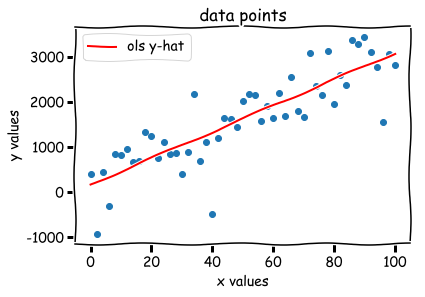
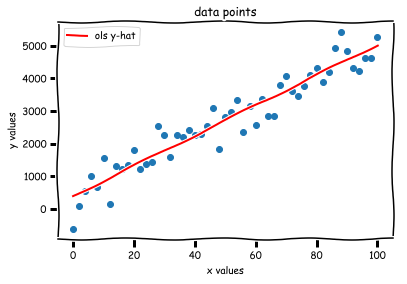
updating readme

diff --git a/README.md b/README.md
@@ -48,7 +48,7 @@ plt.xkcd()
 
 
 
-    <contextlib._GeneratorContextManager at 0x11469d198>
+    <contextlib._GeneratorContextManager at 0x10a7e10b8>
 
 
 
@@ -126,8 +126,8 @@ np.corrcoef(x_vals, y_vals)
 
 
 
-    array([[1.        , 0.84805296],
-           [0.84805296, 1.        ]])
+    array([[1.        , 0.95522727],
+           [0.95522727, 1.        ]])
 
 
 
@@ -201,7 +201,7 @@ RMSE1(y_vals, y_hat)
 
 
 
-    0.7772369138460854
+    1.097359277376351
 
 
 
@@ -213,7 +213,7 @@ RMSE2(y_vals, y_hat)
 
 
 
-    0.7040310035161832
+    0.08305128137697071
 
 
 
@@ -232,7 +232,7 @@ r2_score(y_vals, y_hat)
 
 
 
-    0.7040310035161832
+    0.08305128137697071
 
 
 
@@ -242,6 +242,10 @@ r2_score(y_vals, y_hat)
 ```python
 import statsmodels.api as sm # very standard
 ```
+
+    /anaconda3/lib/python3.6/site-packages/statsmodels/compat/pandas.py:56: FutureWarning: The pandas.core.datetools module is deprecated and will be removed in a future version. Please use the pandas.tseries module instead.
+      from pandas.core import datetools
+
 
 
 ```python
@@ -303,25 +307,25 @@ summary
 <table class="simpletable">
 <caption>OLS Regression Results</caption>
 <tr>
-  <th>Dep. Variable:</th>            <td>y</td>        <th>  R-squared:         </th> <td>   0.719</td>
+  <th>Dep. Variable:</th>            <td>y</td>        <th>  R-squared:         </th> <td>   0.912</td>
 </tr>
 <tr>
-  <th>Model:</th>                   <td>OLS</td>       <th>  Adj. R-squared:    </th> <td>   0.713</td>
+  <th>Model:</th>                   <td>OLS</td>       <th>  Adj. R-squared:    </th> <td>   0.911</td>
 </tr>
 <tr>
-  <th>Method:</th>             <td>Least Squares</td>  <th>  F-statistic:       </th> <td>   125.5</td>
+  <th>Method:</th>             <td>Least Squares</td>  <th>  F-statistic:       </th> <td>   510.7</td>
 </tr>
 <tr>
-  <th>Date:</th>             <td>Thu, 23 May 2019</td> <th>  Prob (F-statistic):</th> <td>4.06e-15</td>
+  <th>Date:</th>             <td>Fri, 24 May 2019</td> <th>  Prob (F-statistic):</th> <td>1.44e-27</td>
 </tr>
 <tr>
-  <th>Time:</th>                 <td>14:42:09</td>     <th>  Log-Likelihood:    </th> <td> -392.85</td>
+  <th>Time:</th>                 <td>07:30:51</td>     <th>  Log-Likelihood:    </th> <td> -380.77</td>
 </tr>
 <tr>
-  <th>No. Observations:</th>      <td>    51</td>      <th>  AIC:               </th> <td>   789.7</td>
+  <th>No. Observations:</th>      <td>    51</td>      <th>  AIC:               </th> <td>   765.5</td>
 </tr>
 <tr>
-  <th>Df Residuals:</th>          <td>    49</td>      <th>  BIC:               </th> <td>   793.6</td>
+  <th>Df Residuals:</th>          <td>    49</td>      <th>  BIC:               </th> <td>   769.4</td>
 </tr>
 <tr>
   <th>Df Model:</th>              <td>     1</td>      <th>                     </th>     <td> </td>   
@@ -335,24 +339,24 @@ summary
     <td></td>       <th>coef</th>     <th>std err</th>      <th>t</th>      <th>P>|t|</th>  <th>[0.025</th>    <th>0.975]</th>  
 </tr>
 <tr>
-  <th>const</th> <td>  165.2947</td> <td>  150.885</td> <td>    1.096</td> <td> 0.279</td> <td> -137.920</td> <td>  468.509</td>
+  <th>const</th> <td>  390.1596</td> <td>  119.078</td> <td>    3.276</td> <td> 0.002</td> <td>  150.863</td> <td>  629.456</td>
 </tr>
 <tr>
-  <th>x1</th>    <td>   29.1315</td> <td>    2.600</td> <td>   11.203</td> <td> 0.000</td> <td>   23.906</td> <td>   34.357</td>
+  <th>x1</th>    <td>   46.3801</td> <td>    2.052</td> <td>   22.600</td> <td> 0.000</td> <td>   42.256</td> <td>   50.504</td>
 </tr>
 </table>
 <table class="simpletable">
 <tr>
-  <th>Omnibus:</th>       <td>13.145</td> <th>  Durbin-Watson:     </th> <td>   2.022</td>
+  <th>Omnibus:</th>       <td> 0.187</td> <th>  Durbin-Watson:     </th> <td>   1.861</td>
 </tr>
 <tr>
-  <th>Prob(Omnibus):</th> <td> 0.001</td> <th>  Jarque-Bera (JB):  </th> <td>  14.891</td>
+  <th>Prob(Omnibus):</th> <td> 0.911</td> <th>  Jarque-Bera (JB):  </th> <td>   0.265</td>
 </tr>
 <tr>
-  <th>Skew:</th>          <td>-0.997</td> <th>  Prob(JB):          </th> <td>0.000584</td>
+  <th>Skew:</th>          <td>-0.134</td> <th>  Prob(JB):          </th> <td>   0.876</td>
 </tr>
 <tr>
-  <th>Kurtosis:</th>      <td> 4.741</td> <th>  Cond. No.          </th> <td>    114.</td>
+  <th>Kurtosis:</th>      <td> 2.769</td> <th>  Cond. No.          </th> <td>    114.</td>
 </tr>
 </table>
 
@@ -407,7 +411,7 @@ bias, slope
 
 
 
-    (36, 28)
+    (109, 43)
 
 
 
@@ -419,7 +423,7 @@ linreg.params
 
 
 
-    array([165.29472623,  29.13154899])
+    array([390.15958368,  46.3800907 ])
 
 
 
@@ -433,7 +437,7 @@ ols_slope, ols_bias
 
 
 
-    (29.131548985125946, 165.29472623494996)
+    (46.380090699058464, 390.159583684173)
 
 
 
@@ -498,7 +502,7 @@ r2_score(y_vals, ols_y_hat), r2_score(y_vals, best_y_hat)
 
 
 
-    (0.71919381491224, 0.6843259397513707)
+    (0.9124591462850884, 0.8084292762921518)
 
 
 
@@ -548,6 +552,110 @@ plt.show()
 
 
 ![png](lesson-plan_files/lesson-plan_48_1.png)
+
+
+### Estimation using the $\hat{m}$ approxmiation
+$$\hat{m} = \rho \frac{\sigma_y}{\sigma_x}$$
+
+$$\hat{m} = \frac{\overline{x}\times\overline{y}-\overline{xy}}{\big(\overline{x}\big)^2-\overline{x^2}}$$
+
+
+```python
+# formula 1
+rho = np.corrcoef(x_vals, y_vals)[0, 1]
+num = y_vals.std()
+den = x_vals.std()
+
+m_hat = rho * num/den
+m_hat
+```
+
+
+
+
+    46.38009069905847
+
+
+
+
+```python
+# formula 2
+num = x_vals.mean()*y_vals.mean() - np.mean(x_vals*y_vals)
+den = x_vals.mean()**2 - np.mean(x_vals**2)
+m_hat = num/den
+m_hat
+```
+
+
+
+
+    46.380090699058435
+
+
+
+
+```python
+# Let's try this slope out!!!
+```
+
+
+```python
+y_trial.shape
+```
+
+
+
+
+    (51, 2)
+
+
+
+
+```python
+y_trial = m_hat * x_vals
+r2_score(y_vals, y_trial)
+```
+
+
+
+
+    0.8379546115943945
+
+
+
+
+```python
+plt.scatter(x_vals, y_vals)
+plt.plot(x_vals, y_trial, c='r')
+plt.xlabel("x values")
+plt.ylabel("y values")
+plt.title("data points")
+plt.show()
+```
+
+
+![png](lesson-plan_files/lesson-plan_55_0.png)
+
+
+# Though our r2 is nice and high at 0.84...
+We should be careful because our line sits under most of our data, we can see this through a residual plot
+
+
+```python
+residuals_from_trial = y_trial - y_vals
+```
+
+
+```python
+plot_residuals(residuals_from_trial)
+```
+
+
+![png](lesson-plan_files/lesson-plan_58_0.png)
+
+
+
+![png](lesson-plan_files/lesson-plan_58_1.png)
 
 
 ### what did we learn?
